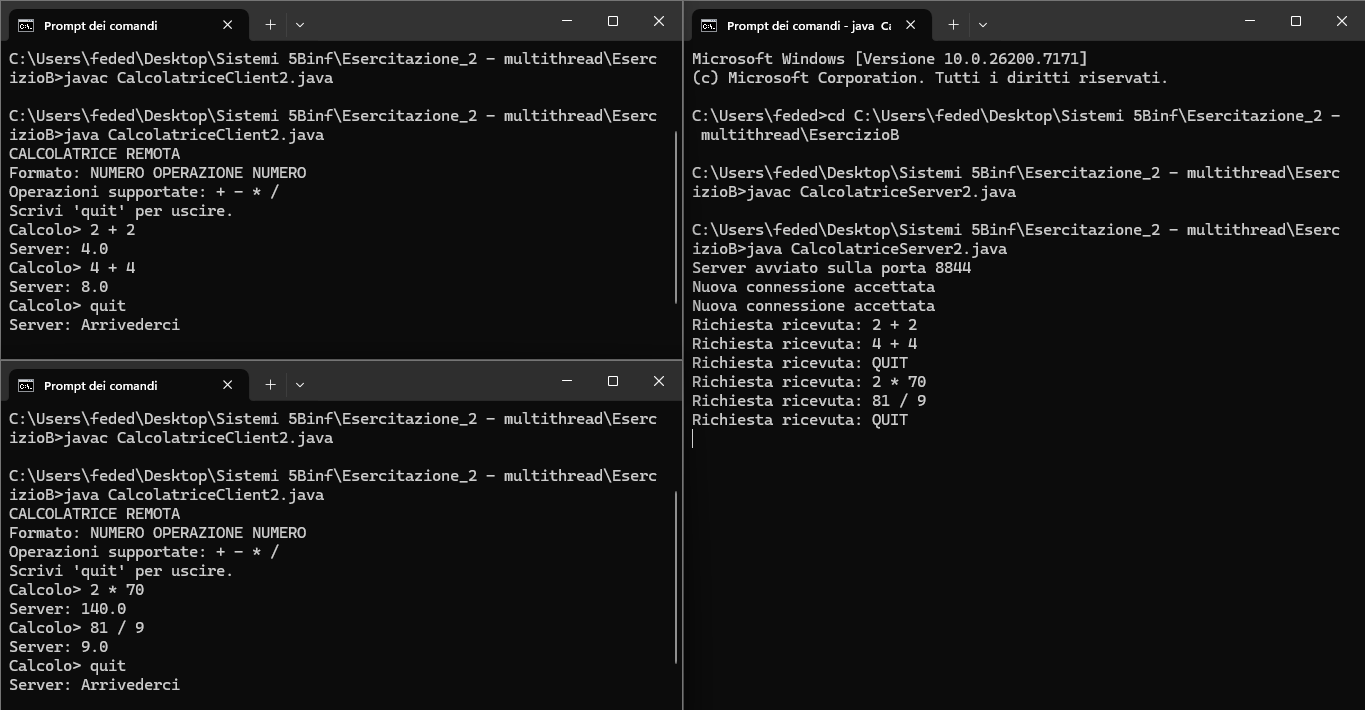
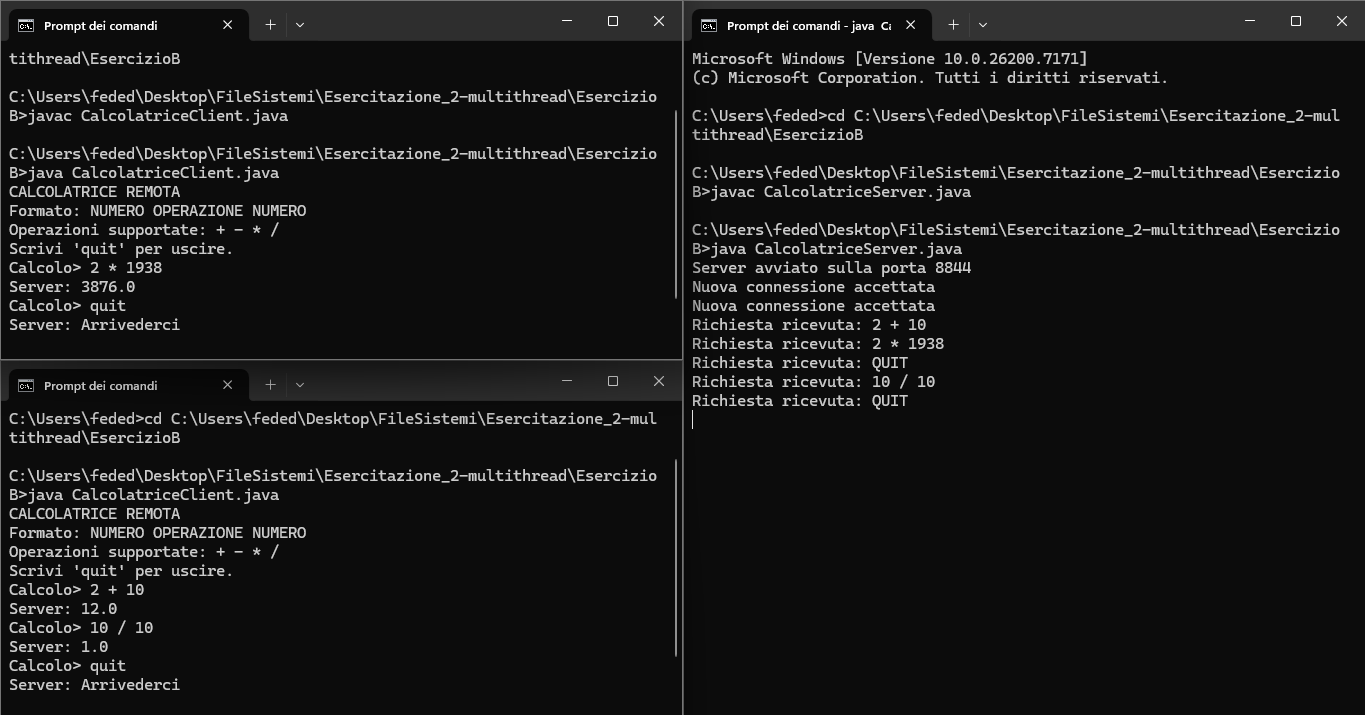
aggiornamento

diff --git a/Esercitazione_2-multithread/EsercizioB/CalcolatriceClient.java b/Esercitazione_2-multithread/EsercizioB/CalcolatriceClient.java
@@ -5,7 +5,7 @@ import java.io.PrintWriter;
 import java.net.Socket;
 import java.util.Scanner;
 
-public class CalcolatriceClient2 {
+public class CalcolatriceClient {
 
     private static final String HOST = "localhost";
     private static final int PORTA = 8844;

diff --git a/Esercitazione_2-multithread/EsercizioB/CalcolatriceServer.java b/Esercitazione_2-multithread/EsercizioB/CalcolatriceServer.java
@@ -5,7 +5,7 @@ import java.io.PrintWriter;
 import java.net.ServerSocket;
 import java.net.Socket;
 
-public class CalcolatriceServer2 {
+public class CalcolatriceServer {
 
     public static void main(String[] args) {
         int port = 8844;
